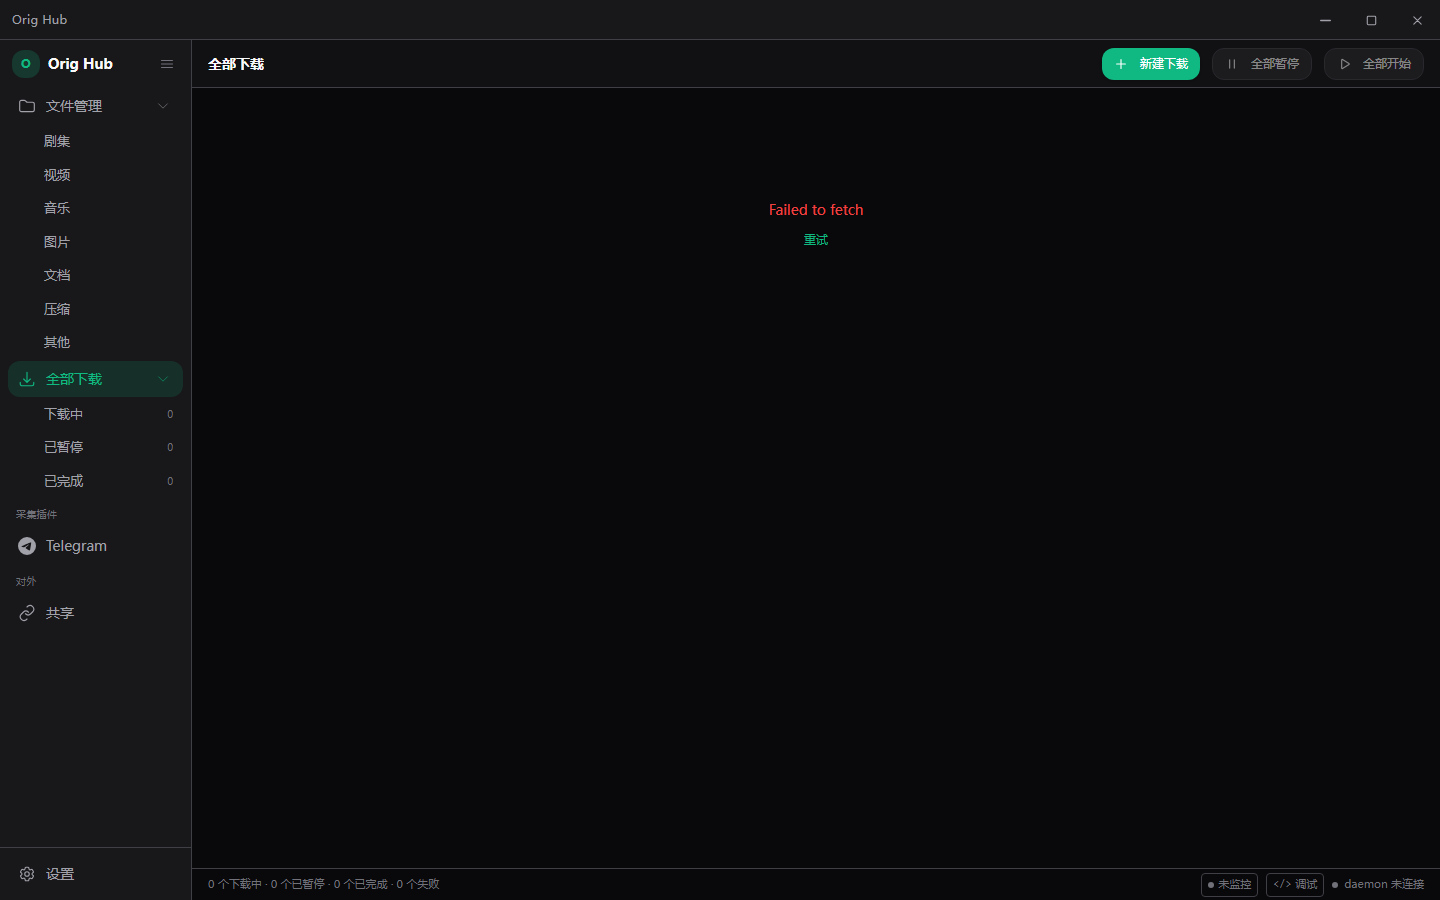
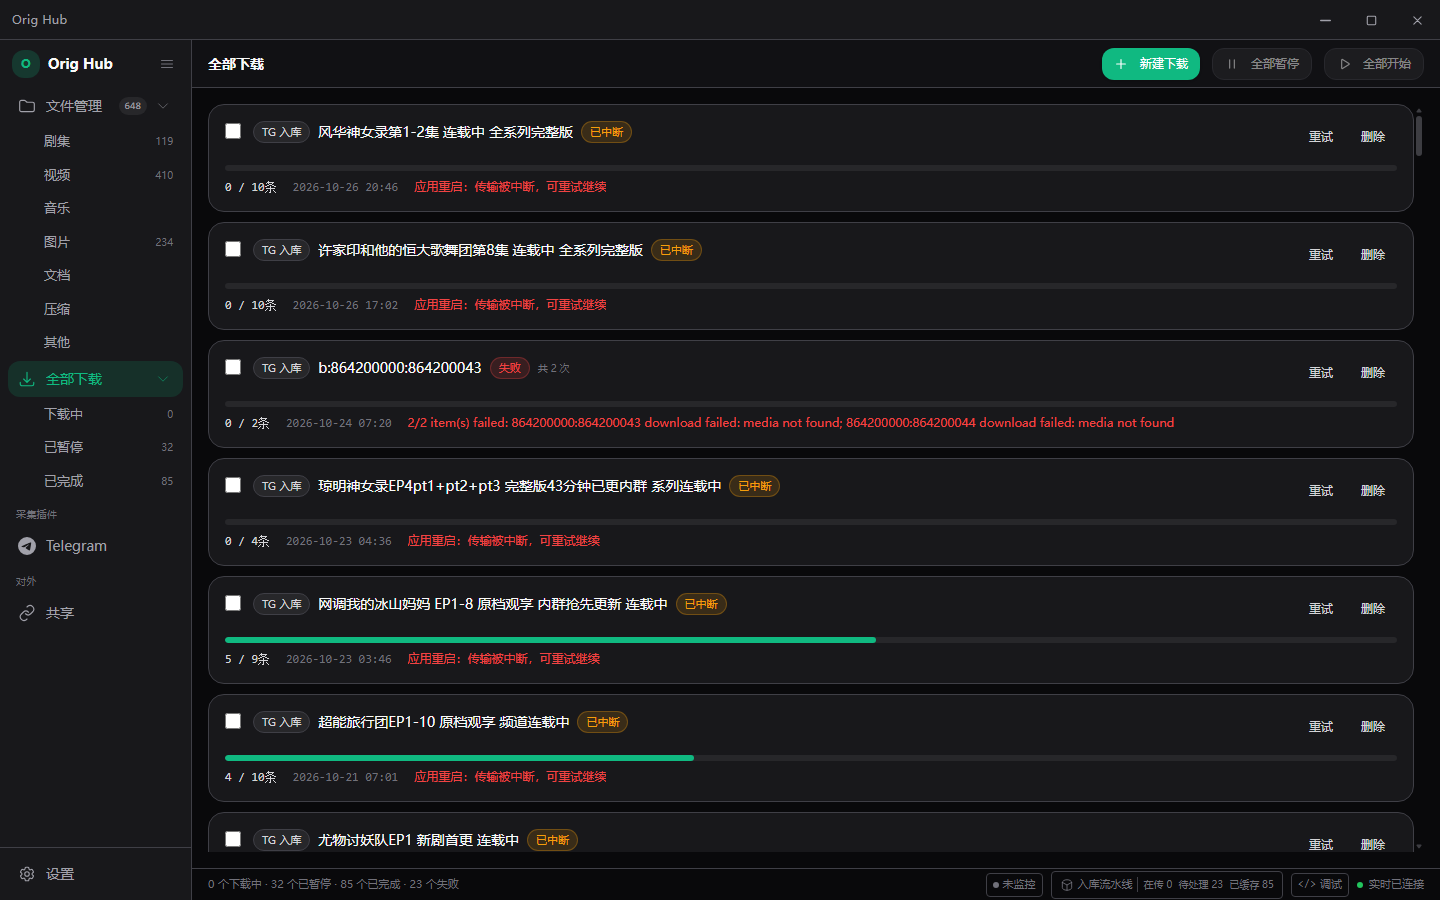
fix(dev): pass the dev-world ports to vite so the stack is usable after one command (BUG-472)
hub.py dev start reported all three services up while the UI still said
"media service not running": ensure_vite launched vite with env=None, so the
frontend fell back to the default 19786/19787 and talked to a different world.
VITE_DAEMON_PORT is now always sent and VITE_TG_PORT falls back to the dev-world
port when /api/config still reports tg_port=None at startup.
Verify: smoke M2 went from FAIL rows=0 to PASS rows=33; the served modules show
the injected ports. verify_bug447 also gains a non-empty-page guard and a sonar
self-check, because its scan was passing vacuously on the empty page.

diff --git a/scripts/dev/dev_stack.py b/scripts/dev/dev_stack.py
@@ -389,10 +389,26 @@ def ensure_vite() -> tuple[bool, str]:
     if not VITE_DIR.is_dir():
         return False, f"目录不存在 {VITE_DIR}"
     log_handle = VITE_LOG.open("a", encoding="utf-8", errors="replace", buffering=1)
+    # 端口必须随世界一起下发，否则 vite 里的前端仍按**默认** 19786/19787 去连，
+    # 而 dev 世界跑在 29786/29787 ⇒ 界面显示「媒体服务未运行」，一条命令起来的栈
+    # 实际不可用（这是「dev 环境无法保证」的第二个成因）。
+    # 真源 = daemon 的 `/api/config.tg_port`（orig-tg 端口可能被顺延，不能写死）。
+    env = os.environ.copy()
+    env["VITE_DAEMON_PORT"] = str(DAEMON_PORT)
+    cfg = None
+    try:
+        cfg = ds.probe(DAEMON_PORT)
+    except Exception:  # noqa: BLE001 - daemon 未起时只退化为默认端口
+        cfg = None
+    # `tg_port` 在 daemon 尚未接管 orig-tg 时是 None（实测 dev start 后一段时间内如此），
+    # 此时必须退回本世界的规范端口 —— 否则前端保留默认 19787，而 orig-tg 跑在 29787，
+    # 界面就是「媒体服务未运行」。
+    env["VITE_TG_PORT"] = str((cfg or {}).get("tg_port") or TG_PORT)
     try:
         proc = subprocess.Popen(
             ["cmd", "/c", "npm", "run", "dev"],
             cwd=str(VITE_DIR),
+            env=env,
             stdout=log_handle,
             stderr=subprocess.STDOUT,
             creationflags=ds.DETACHED | ds.NEW_GROUP,

diff --git a/docs/bugs/BUG-472.md b/docs/bugs/BUG-472.md
@@ -1,0 +1,62 @@
+# BUG-472: 「一条命令起 dev 栈」起来后前端仍连默认端口，界面显示「媒体服务未运行」
+
+- 状态: fixed
+- 发现日期: 2026-10-28
+- 修复日期: 2026-10-28
+- 模块: build
+- 严重程度: high
+- 排期: 2026-11-03
+
+## 现象
+
+`python3 scripts/hub.py dev start` 报告三项在线（29786 / 29787 / 5180），产物与源码一致，
+但浏览器打开 5180 时主区一直是：
+
+> 媒体服务未运行 ［尝试连接］
+
+状态栏右下角同步显示「daemon 未连接」。此时 `curl 127.0.0.1:29787/api/media/stats`
+能拿到完整数据（items=648 / series=176）—— 服务在跑，界面说没有。
+
+## 根因（两处，缺一不可）
+
+1. **端口没有随世界一起下发**：dev 世界把 daemon/orig-tg 挪到 29786/29787（BUG-453 的
+   dev/release 隔离），但 `dev_stack.ensure_vite()` 用 `env=None` 起 vite
+   ⇒ 前端 `import.meta.env.VITE_DAEMON_PORT` / `VITE_TG_PORT` 全是 undefined
+   ⇒ 退回 `api/daemon.ts` 的 19786 与 `api/tg.ts` 的 19787 默认值，连的是**另一个世界**。
+2. **`tg_port` 在启动瞬间为 None**：`GET /api/config` 只有在 daemon 接管 orig-tg 之后
+   才给出 `tg_port`；`dev start` 结束后立刻起 vite 时该字段仍然是 `None`
+   ⇒ 即使只补 `VITE_DAEMON_PORT`，orig-tg 仍连错。必须退回本世界的规范端口。
+
+## 为什么「之前一直没发现」
+
+`smoke.cjs` 的 M2 断言 `file-list-row / media-card / series-card` 出现行数 > 0，
+它在默认端口 19786 下跑（或根本没人跑）时表现为「连不上」；
+而**页面空白时 BUG-447 的 C1 扫描仍然全绿** —— 空页面扫不到 raw key 是无意义的恒绿。
+本条被查出来，正是因为给 C1 加了「页面必须真有内容」的前置断言后 smoke 变红。
+
+## 修复
+
+`scripts/dev/dev_stack.py::ensure_vite()` 启动 vite 时下发：
+
+```python
+env["VITE_DAEMON_PORT"] = str(DAEMON_PORT)          # 29786
+env["VITE_TG_PORT"] = str((cfg or {}).get("tg_port") or TG_PORT)  # None -> 29787
+```
+
+`tg_port` 仍以 daemon 的 `/api/config` 为真源（可能被顺延），只在缺失时退回规范端口。
+
+## 验收证据
+
+- 修复前：`DAEMON_PORT=29786 TG_PORT=29787 node tauri-shell/verify/smoke.cjs`
+  → `M2_files_view_renders: FAIL rows=0`（页面「媒体服务未运行」）。
+- 修复后：同一条命令 → `M2_files_view_renders: PASS rows=33`，`verdict: PASS`。
+- 注入核对（vite 实际下发的值）：
+  ```
+  curl -s http://127.0.0.1:5180/src/api/daemon.ts | head -1
+  → import.meta.env = {... "VITE_DAEMON_PORT": "29786"}
+  curl -s http://127.0.0.1:5180/src/api/tg.ts | head -1
+  → "VITE_TG_PORT": "29787"
+  ```
+- 连带：`verify_bug447_i18n_keys.cjs` 补「页面非空」前置 + 扫描器声纳自检后 **4/4 PASS**
+  （此前在空页面上是假通过）。
+- 修复提交：见 README 索引对应行。

diff --git a/docs/bugs/README.md b/docs/bugs/README.md
@@ -149,6 +149,7 @@
 | BUG-469 | 缺「剧集文件整理」——以剧集为单位把内容（文字）/ 视频（多集）/ 图片按需求归位（现只有条目级 OrganizeWizard） | open | engine+shell |
 | BUG-470 | 单条 / 整组数据缺「加入筛选 + 缓存入库」合并快捷入口（核心逻辑不变：筛选名 = 标题 = 剧集名；仅壳层加入口，引擎零改动） | open | shell |
 | BUG-471 | 目录管理缺第三个动词「迁移」——清盘场景下无法把旧根字节堆入主目录（只能丢库或永不清盘）；含「不写用户磁盘」红线的唯一例外条件 | open | engine+shell |
+| BUG-472 | 「一条命令起 dev 栈」后前端仍连默认 19786/19787——vite 未下发 VITE_DAEMON_PORT/VITE_TG_PORT，界面显示「媒体服务未运行」而服务正常 | fixed | build |
 
 ## 已完成
 

diff --git a/docs/bugs/BUG-447.md b/docs/bugs/BUG-447.md
@@ -93,6 +93,6 @@ node tauri-shell/verify/_shot_pages_eval.cjs   # 逐页截图
 
 - 门禁脚本：`scripts/check-i18n-keys.py`（检查项 4 = dangling reference）
 - 验收脚本：`tauri-shell/verify/verify_bug447_i18n_keys.cjs`（已入 `verify/MANIFEST.md`）
-- 修复提交：见本文档末尾「修复提交」字段（commit hash 由提交后回填）
+- 修复提交：`3a00a358b91dda22a8d70c63f09ee1bf10eafbbe`
 - 规模：修复前门禁报 **250 处**悬空引用（含 8 处注释/拼接假阳性，降噪后 242，
   实补 245 条：`dir.root*` 4 条在门禁二次跑时暴露）。

diff --git a/docs/bugs/BUG-457.md b/docs/bugs/BUG-457.md
@@ -4,7 +4,7 @@
 - 发现日期: 2026-10-27
 - 模块: engine+shell
 - 严重程度: high
-- 排期: 本轮（M1.3，与 fd 模式状态栏同步排期）
+- 排期: 2026-11-03
 
 ## 现象
 
